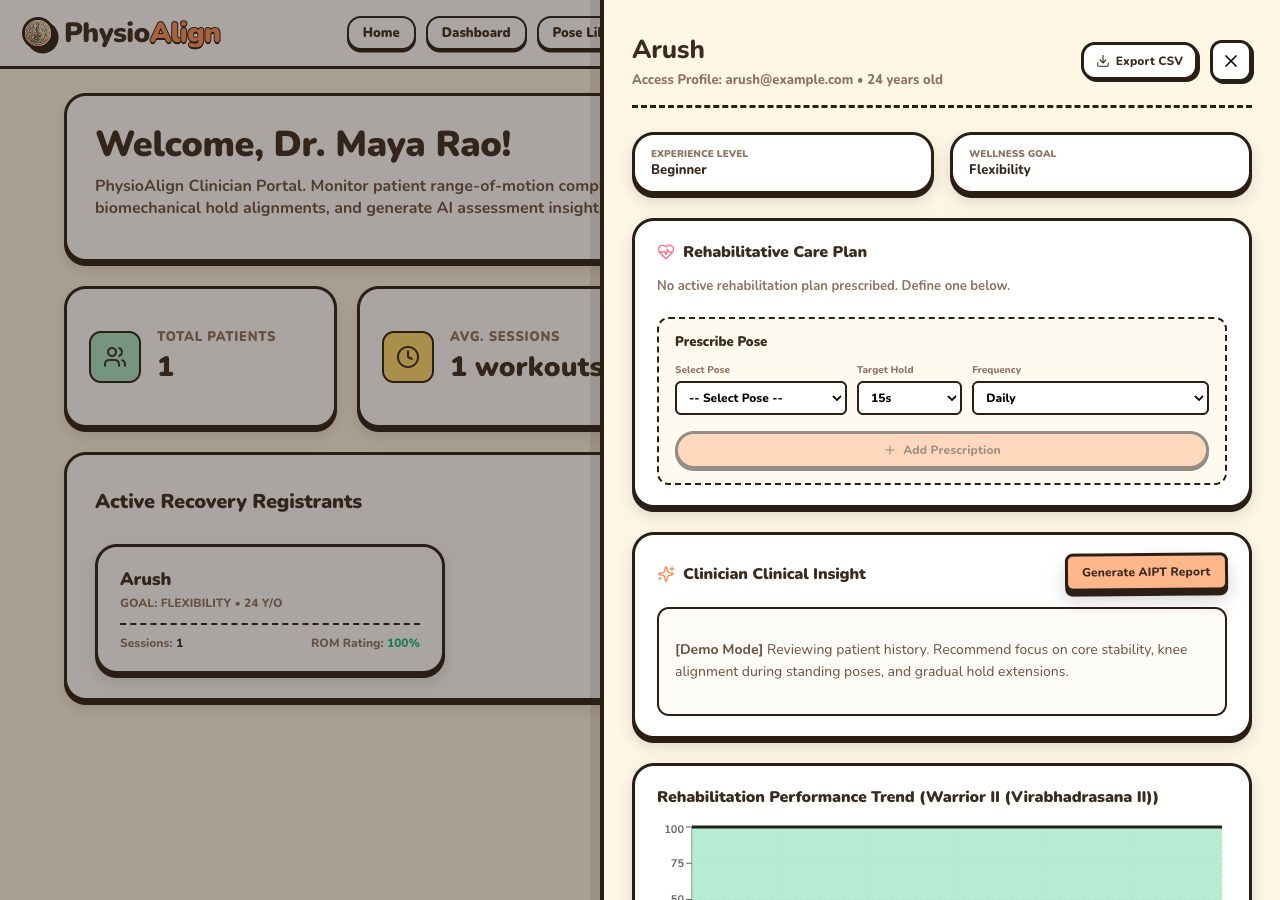
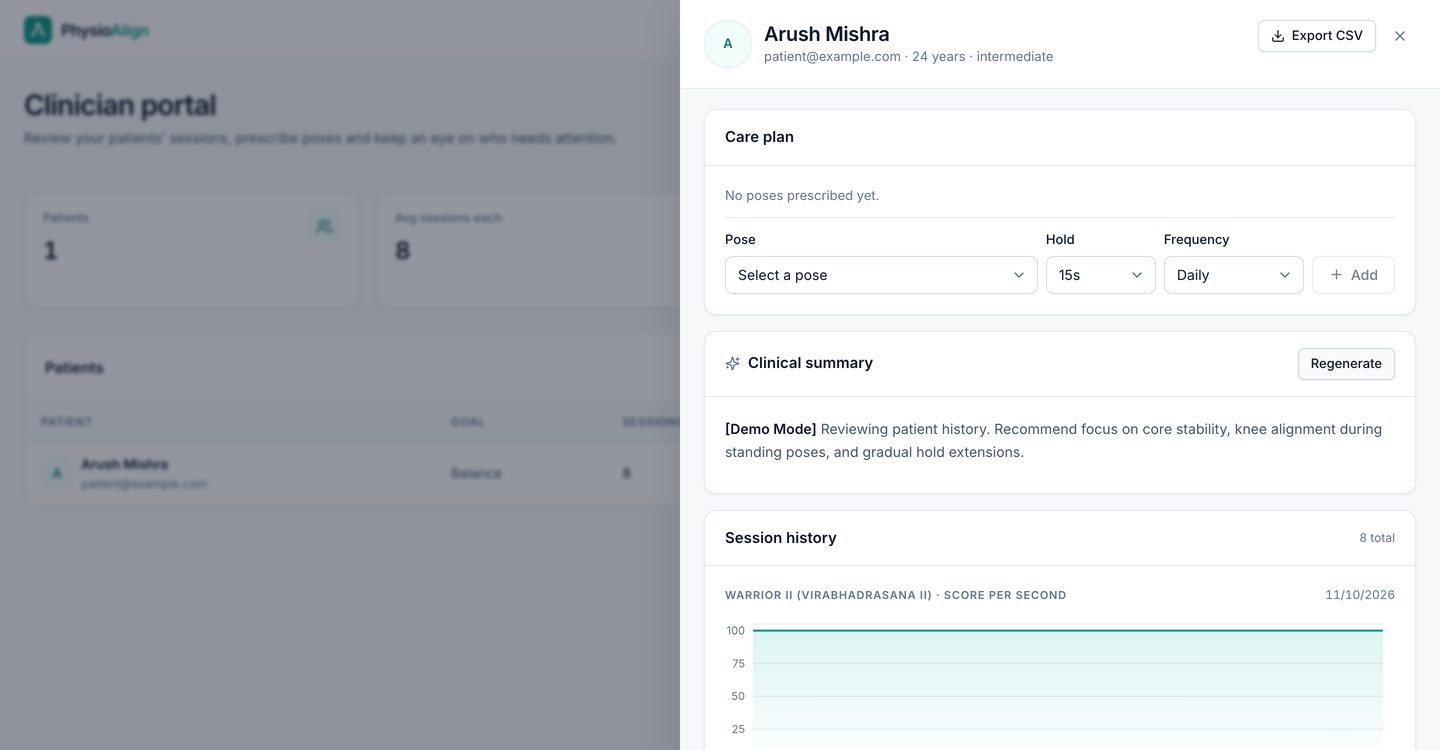
refresh screenshots and hero image for the new ui

diff --git a/README.md b/README.md
@@ -5,8 +5,12 @@
 A webcam posture coach for yoga and physiotherapy exercises. It tracks 33 body landmarks in the browser and scores 3D joint angles against target ranges for each pose. It gives on-screen and spoken corrections as you move, times how long you hold good form, and sends each session to a clinician dashboard with an AI-written report.
 
 <p align="center">
-  <img src="docs/screenshots/session.jpg" width="49%" alt="Live session with skeleton overlay and joint angle feedback" />
+  <img src="docs/screenshots/session.jpg" width="49%" alt="Live session with skeleton overlay and joint angle meters" />
   <img src="docs/screenshots/report.jpg" width="49%" alt="Session report with accuracy chart and AI critique" />
+</p>
+<p align="center">
+  <img src="docs/screenshots/dashboard.jpg" width="49%" alt="Patient dashboard with streak, average score and recent sessions" />
+  <img src="docs/screenshots/doctor-portal.jpg" width="49%" alt="Clinician portal showing a patient's care plan and session history" />
 </p>
 
 **Roles:**
@@ -24,6 +28,7 @@ A webcam posture coach for yoga and physiotherapy exercises. It tracks 33 body l
 | **Async report generation** | Sessions save straight away (`202 Accepted`). A queue with retries writes the Gemini critique in the background, and the client polls with backoff. Pending jobs resume after a restart. | Saving no longer waits several seconds for the LLM |
 | **Code splitting** | Screens behind the login are lazy-loaded, then prefetched in the background once the user signs in | Initial JS **728.8 KB → 200.3 KB** (gzip 200.4 → 60.1 KB) |
 | **Security** | httpOnly `SameSite=Lax` session cookie, CSRF header check, role-based access with per-doctor patient scoping, Zod validation on every body, server-side Google ID-token verification, rate-limited auth, PBKDF2 (210k iterations) with rehash on login | Covered by the API test suite |
+| **Design system** | One CSS layer of tokens (colour, spacing, radii, elevation) and component classes — buttons, cards, tables, forms, meters, drawers — that every screen is built from, instead of inline styles | Consistent UI, keyboard focus states, reduced-motion support and a responsive layout down to 390px |
 | **Schema migrations** | Versioned, transactional migrations with an advisory lock. Existing databases are upgraded in place: `TEXT` JSON becomes `JSONB`, the `clerk_id` column is renamed to `user_id`, and indexes are added. | Tested against the pre-migration production schema |
 
 The pose numbers were measured on an Apple M4 in Chrome 153 (GPU delegate) over 300 frames of a 640×480 feed. To measure on your own machine, open the app with `?perf` and run `__perf()` in the console. To reproduce the smoothing numbers, run `npm run bench:smoothing`.
